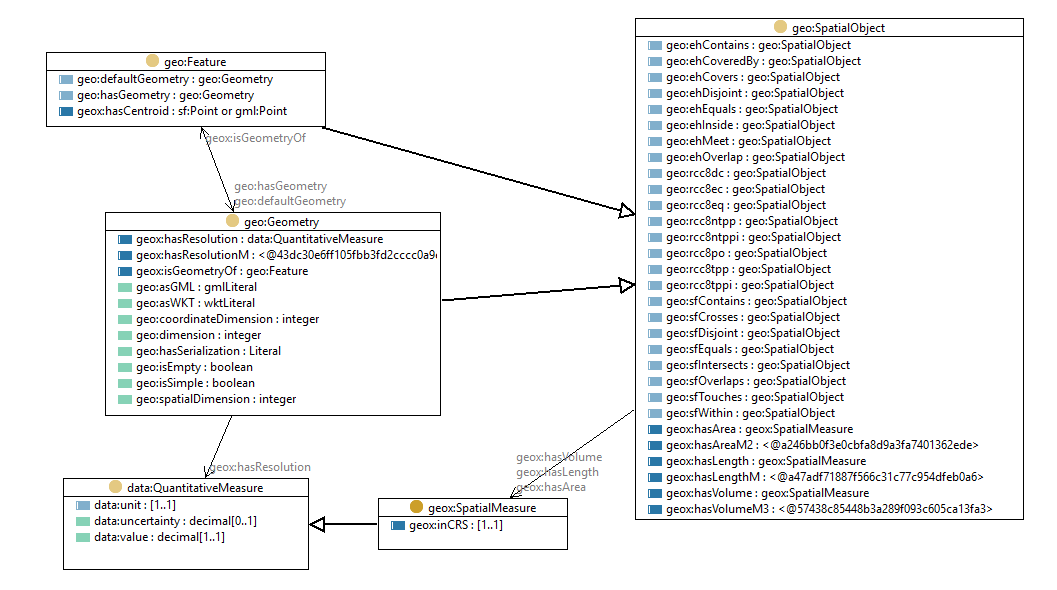
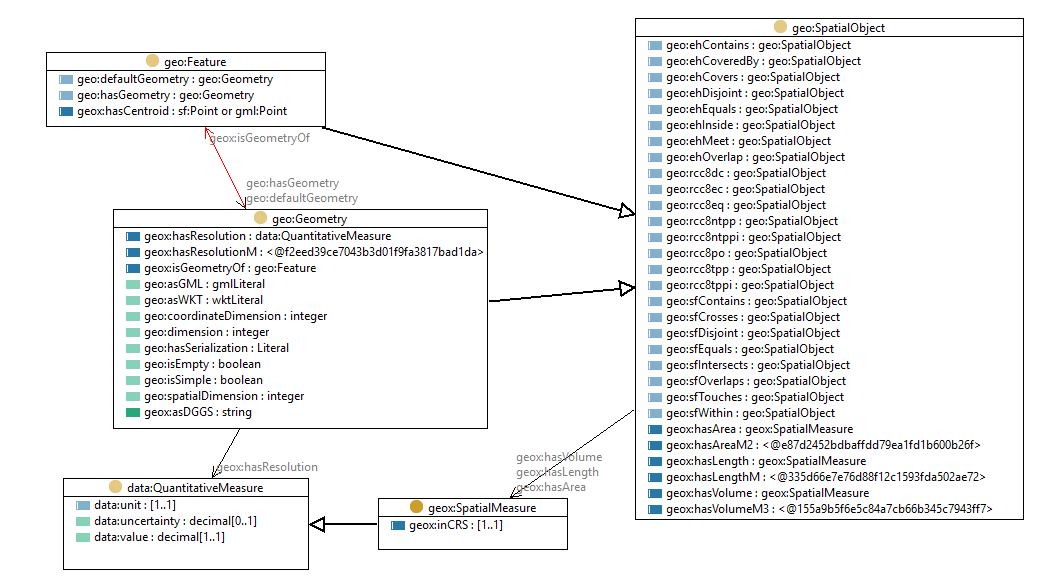
Rebuild doco

diff --git a/geox.html b/geox.html
@@ -264,12 +264,10 @@
             (<a href="mailto:nicholas.car@surroundaustralia.com">nicholas.car@surroundaustralia.com</a>) of 
             Surround Australia<br/>
                 </dd>
-                <dt>Created</dt>
+        <dt>Created</dt>
         <dd>2019-01-08</dd>
         <dt>Modified</dt>
-        <dd>2020-05-18</dd>
-        <dt>Version Information</dt>
-        <dd>Alpha version</dd>
+        <dd>2020-05-27</dd>
         <dt>Version IRI</dt>
         <dd><a href="http://linked.data.gov.au/def/geox/1.1">http://linked.data.gov.au/def/geox/1.1</a></dd>
         <dt>Imports</dt>
@@ -290,6 +288,7 @@
     <ol>
         <li><a href="#classes">Classes</a></li>
         <li><a href="#objectproperties">Object Properties</a></li>
+        <li><a href="#datatypeproperties">Datatype Properties</a></li>
         <li><a href="#namedindividuals">Named Individuals</a></li>
         <li><a href="#namespaces">Namespaces</a></li>
         <li><a href="#legend">Legend</a></li>
@@ -321,6 +320,22 @@
                 </td>
             </tr>
             <tr>
+                <th>Example</th>
+                <td>
+                    <pre>
+auspix:R7430551
+  rdf:type geo:Feature ;
+  geox:hasArea [
+       rdf:type geox:SpatialMeasure ;
+       data:uncertainty 1.5 ;
+       data:unit &lt;http://qudt.org/vocab/unit/M2&gt; ;
+       data:value 17793623.0 ;
+     ] ;
+.
+                    </pre>
+                </td>
+            </tr>
+            <tr>
                 <th>Super-classes</th>
                 <td>
                     <a href="http://linked.data.gov.au/def/datatype/QuantitativeMeasure">data:QuantitativeMeasure</a><sup class="sup-c" title="class">c</sup><br/>
@@ -336,8 +351,8 @@
                 <th>In range of</th>
                 <td>
                     <a href="#hasarea">geox:hasArea</a><sup class="sup-op" title="object property">op</sup><br/>
-                    <a href="#hasvolume">geox:hasVolume</a><sup class="sup-op" title="object property">op</sup><br/>
                     <a href="#haslength">geox:hasLength</a><sup class="sup-op" title="object property">op</sup><br/>
+                    <a href="#hasvolume">geox:hasVolume</a><sup class="sup-op" title="object property">op</sup><br/>
                 </td>
             </tr>
         </table>
@@ -370,18 +385,18 @@
                 <th>Example</th>
                 <td>
                     <pre>
-                      my:plot456
-
-  :hasArea [
-
-    data:uncertainty 0.5 ;
-
-    data:unit <http://qudt.org/vocab/unit/M2> ;
-
-    data:value 63.9 ;
-
-  ] ;
-
+auspix:R7430551
+  rdf:type geo:Feature ;
+  geox:hasArea [
+      data:uncertainty 1.5 ;
+      data:unit &lt;http://qudt.org/vocab/unit/M2&gt; ;
+      data:value 17793623.0 ;
+    ] ;
+  geo:hasGeometry [
+    rdf:type sf:Polygon ;
+    geo:asWKT "POLYGON((131.02880658436214 -25.331112553792963 , 131.06995884773661 -25.331112553792963  , 131.06995884773661 -25.36980468021464 , 131.02880658436214 -25.36980468021464 , 131.02880658436214 -25.331112553792963))"^^geo:wktLiteral ;
+    ] ;
+  rdfs:seeAlso &lt;http://ec2-52-63-73-113.ap-southeast-2.compute.amazonaws.com/AusPIX-DGGS-dataset/ausPIX/R7430551&gt; ;
 .
                     </pre>
                 </td>
@@ -411,14 +426,13 @@
                 <th>Example</th>
                 <td>
                     <pre>
-                      my:plot456
-
-  :hasAreaM2 [
-
-    data:value 63.9 ;
-
-  ] ;
-
+auspix:R7430551
+  rdf:type geo:Feature ;
+  geox:hasAreaM2 [
+      data:value 17793623.0 ;
+    ] ;
+  geo:asWKT "POLYGON((131.02880658436214 -25.331112553792963 , 131.06995884773661 -25.331112553792963  , 131.06995884773661 -25.36980468021464 , 131.02880658436214 -25.36980468021464 , 131.02880658436214 -25.331112553792963))"^^geo:wktLiteral ;
+  rdfs:seeAlso &lt;http://ec2-52-63-73-113.ap-southeast-2.compute.amazonaws.com/AusPIX-DGGS-dataset/ausPIX/R7430551&gt; ;
 .
                     </pre>
                 </td>
@@ -445,9 +459,34 @@
                 </td>
             </tr>
             <tr>
+                <th>Example</th>
+                <td>
+                    <pre>
+auspix:R7430551 a geo:Feature ;
+  geox:hasCentroid [
+      rdf:type sf:Point ;
+      geo:asWKT "POINT(131.0493827160494, -25.350457086495783)"^^geo:wktLiteral ;
+    ] ;
+  geo:hasGeometry [
+    rdf:type sf:Polygon ;
+    geo:asWKT "POLYGON((131.02880658436214 -25.331112553792963 , 131.06995884773661 -25.331112553792963  , 131.06995884773661 -25.36980468021464 , 131.02880658436214 -25.36980468021464 , 131.02880658436214 -25.331112553792963))"^^geo:wktLiteral ;
+    ] ;
+  rdfs:seeAlso &lt;http://ec2-52-63-73-113.ap-southeast-2.compute.amazonaws.com/AusPIX-DGGS-dataset/ausPIX/R7430551&gt; ;
+.
+                    </pre>
+                </td>
+            </tr>
+            <tr>
                 <th>Super-properties</th>
                 <td>
                     <a href="http://www.opengis.net/ont/geosparql#hasGeometry">geo:hasGeometry</a>
+                </td>
+            </tr>
+            <tr>
+                <th>Range(s)</th>
+                <td>
+                    <a href="http://www.opengis.net/ont/sf#Point">sf:Point</a><sup class="sup-c" title="class">c</sup>
+                    <a href="http://www.opengis.net/ont/gml#Point">http://www.opengis.net/ont/gml#Point</a><sup class="sup-c" title="class">c</sup>
                 </td>
             </tr>
         </table>
@@ -463,18 +502,12 @@
                 <th>Example</th>
                 <td>
                     <pre>
-                      my:road456
-
+my:road456
   :hasLength [
-
     data:uncertainty 5.0 ;
-
-    data:unit <http://qudt.org/vocab/unit/M> ;
-
+    data:unit &lt;http://qudt.org/vocab/unit/M&gt; ;
     data:value 234.0 ;
-
   ] ;
-
 .
                     </pre>
                 </td>
@@ -504,14 +537,10 @@
                 <th>Example</th>
                 <td>
                     <pre>
-                      my:road456
-
+my:road456
   :hasLengthM [
-
     data:value 234.0 ;
-
   ] ;
-
 .
                     </pre>
                 </td>
@@ -535,16 +564,11 @@
                 <th>Example</th>
                 <td>
                     <pre>
-                      my:image456
-
+my:image456
   :hasResolution [
-
-    data:unit <http://qudt.org/vocab/unit/M> ;
-
+    data:unit &lt;http://qudt.org/vocab/unit/M&gt; ;
     data:value 30.0 ;
-
   ] ;
-
 .
                     </pre>
                 </td>
@@ -574,14 +598,10 @@
                 <th>Example</th>
                 <td>
                     <pre>
-                      my:image456
-
+my:image456
   :hasResolutionM [
-
     data:value 30.0 ;
-
   ] ;
-
 .
                     </pre>
                 </td>
@@ -611,16 +631,11 @@
                 <th>Example</th>
                 <td>
                     <pre>
-                      my:swimmingPool99
-
+my:swimmingPool99
   :hasVolume [
-
-    data:unit <http://qudt.org/vocab/unit/M3> ;
-
+    data:unit &lt;http://qudt.org/vocab/unit/M3&gt; ;
     data:value 3050.0 ;
-
   ] ;
-
 .
                     </pre>
                 </td>
@@ -650,14 +665,10 @@
                 <th>Example</th>
                 <td>
                     <pre>
-                      my:swimmingPool99
-
+my:swimmingPool99
   :hasVolumeM3 [
-
     data:value 3050.0 ;
-
   ] ;
-
 .
                     </pre>
                 </td>
@@ -677,6 +688,23 @@
                 <th>IRI</th>
                 <td><code>http://linked.data.gov.au/def/geox#inCRS</code></td>
             </tr>
+            <tr>
+                <th>Example</th>
+                <td>
+                    <pre>
+auspix:R7430551
+  rdf:type geo:Feature ;
+  geox:hasArea [
+      rdf:type geox:SpatialMeasure ;
+      data:uncertainty 1.5 ;
+      data:unit &lt;http://qudt.org/vocab/unit/M2&gt; ;
+      data:value 17793623.0 ;
+      geox:inCRS &lt;https://epsg.io/7844&gt; ;
+    ] ;
+.
+                    </pre>
+                </td>
+            </tr>
         </table>
     </div>
     <div class="entity property" id="isgeometryof">
@@ -685,6 +713,19 @@
             <tr>
                 <th>IRI</th>
                 <td><code>http://linked.data.gov.au/def/geox#isGeometryOf</code></td>
+            </tr>
+            <tr>
+                <th>Example</th>
+                <td>
+                    <pre>
+ex:PR7430551
+      rdf:type sf:Polygon ;
+      geo:asWKT "POLYGON((131.02880658436214 -25.331112553792963 , 131.06995884773661 -25.331112553792963  , 131.06995884773661 -25.36980468021464 , 131.02880658436214 -25.36980468021464 , 131.02880658436214 -25.331112553792963))"^^geo:wktLiteral ;
+	  geox:isGeometryOf auspix:R7430551 ;
+      rdfs:seeAlso &lt;http://ec2-52-63-73-113.ap-southeast-2.compute.amazonaws.com/AusPIX-DGGS-dataset/ausPIX/R7430551&gt; ;
+.
+                    </pre>
+                </td>
             </tr>
             <tr>
                 <th>Inverse properties</th>
@@ -741,6 +782,50 @@
     </div>
 </section>
 
+<section id="datatypeproperties">
+    <h2>Datatype Properties <span style="float:right; font-size:smaller;"><a href="">&uparrow;</a></span></h2>
+    <ul class="hlist">
+        <li><a href="#asDGGS">asDGGS</a></li>
+    </ul>
+    <div class="entity property" id="asDGGS">
+        <h3>asDGGS<sup title="datatype property" class="sup-dp">dp</sup></h3>
+        <table>
+            <tr>
+                <th>IRI</th>
+                <td><code>http://linked.data.gov.au/def/geox#asDGGS</code></td>
+            </tr>
+            <tr>
+                <th>Example</th>
+                <td>
+                    <pre>
+ex:G99 a geo:Geometry ;
+  geox:asDGGS "R7430550 R7430551 R7430552"^^geox:dggsLiteral ;
+.
+                    </pre>
+                </td>
+            </tr>
+            <tr>
+                <th>Super-properties</th>
+                <td>
+                    <a href="http://www.opengis.net/ont/geosparql#hasSerialization">geo:hasSerialization</a>
+                </td>
+            </tr>
+            <tr>
+                <th>Domain(s)</th>
+                <td>
+                    <a href="http://www.opengis.net/ont/geosparql#Geometry">geo:Geometry</a><sup class="sup-c" title="class">c</sup>
+                </td>
+            </tr>
+            <tr>
+                <th>Range(s)</th>
+                <td>
+                    <a href="http://linked.data.gov.au/def/geox#dggsLiteral">geox:dggsLiteral</a><sup class="sup-c" title="class">c</sup>
+                </td>
+            </tr>
+        </table>
+    </div>
+</section>
+
 
 <section id="namedindividuals">
     <h2>Named Individuals <span style="float:right; font-size:smaller;"><a href="">&uparrow;</a></span></h2>
@@ -791,6 +876,8 @@
     <dl>
         <dt><em>default (:)</em></dt>
         <dd><code>http://linked.data.gov.au/def/geox#</code></dd>
+        <dt>auspix</dt>
+        <dd><code>http://pid.geoscience.gov.au/dggs/ausPIX/</code></dd>
         <dt>data</dt>
         <dd><code>http://linked.data.gov.au/def/datatype/</code></dd>
         <dt>dc</dt>
@@ -815,6 +902,8 @@
         <dd><code>http://schema.org/</code></dd>
         <dt>sdo1</dt>
         <dd><code>https://schema.org/</code></dd>
+        <dt>sf</dt>
+        <dd><code>http://www.opengis.net/ont/sf#</code></dd>
         <dt>skos</dt>
         <dd><code>http://www.w3.org/2004/02/skos/core#</code></dd>
         <dt>sosa</dt>
